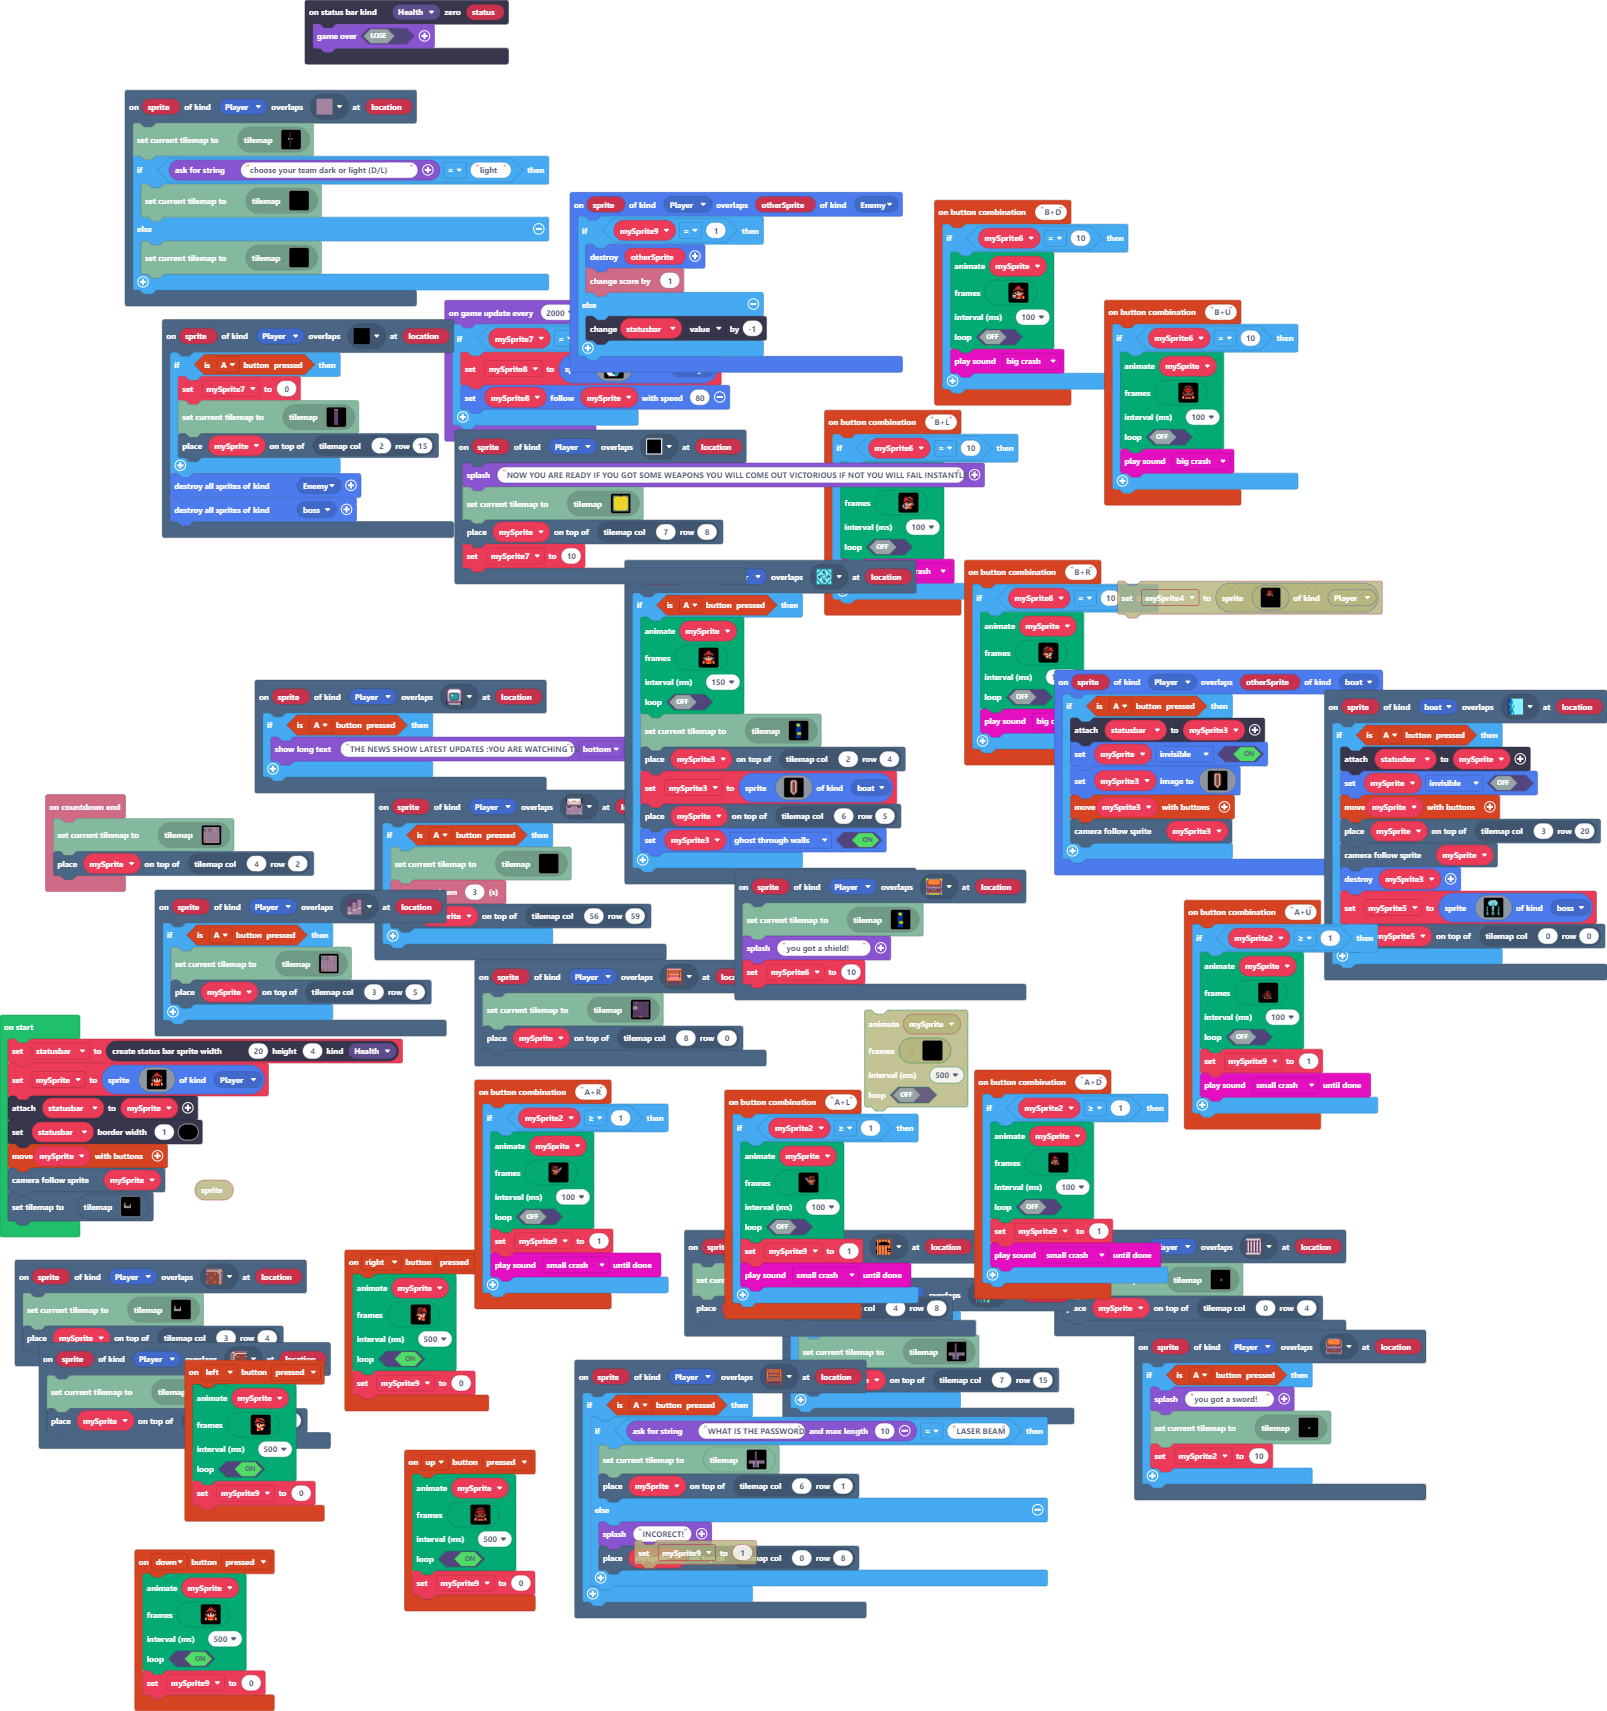
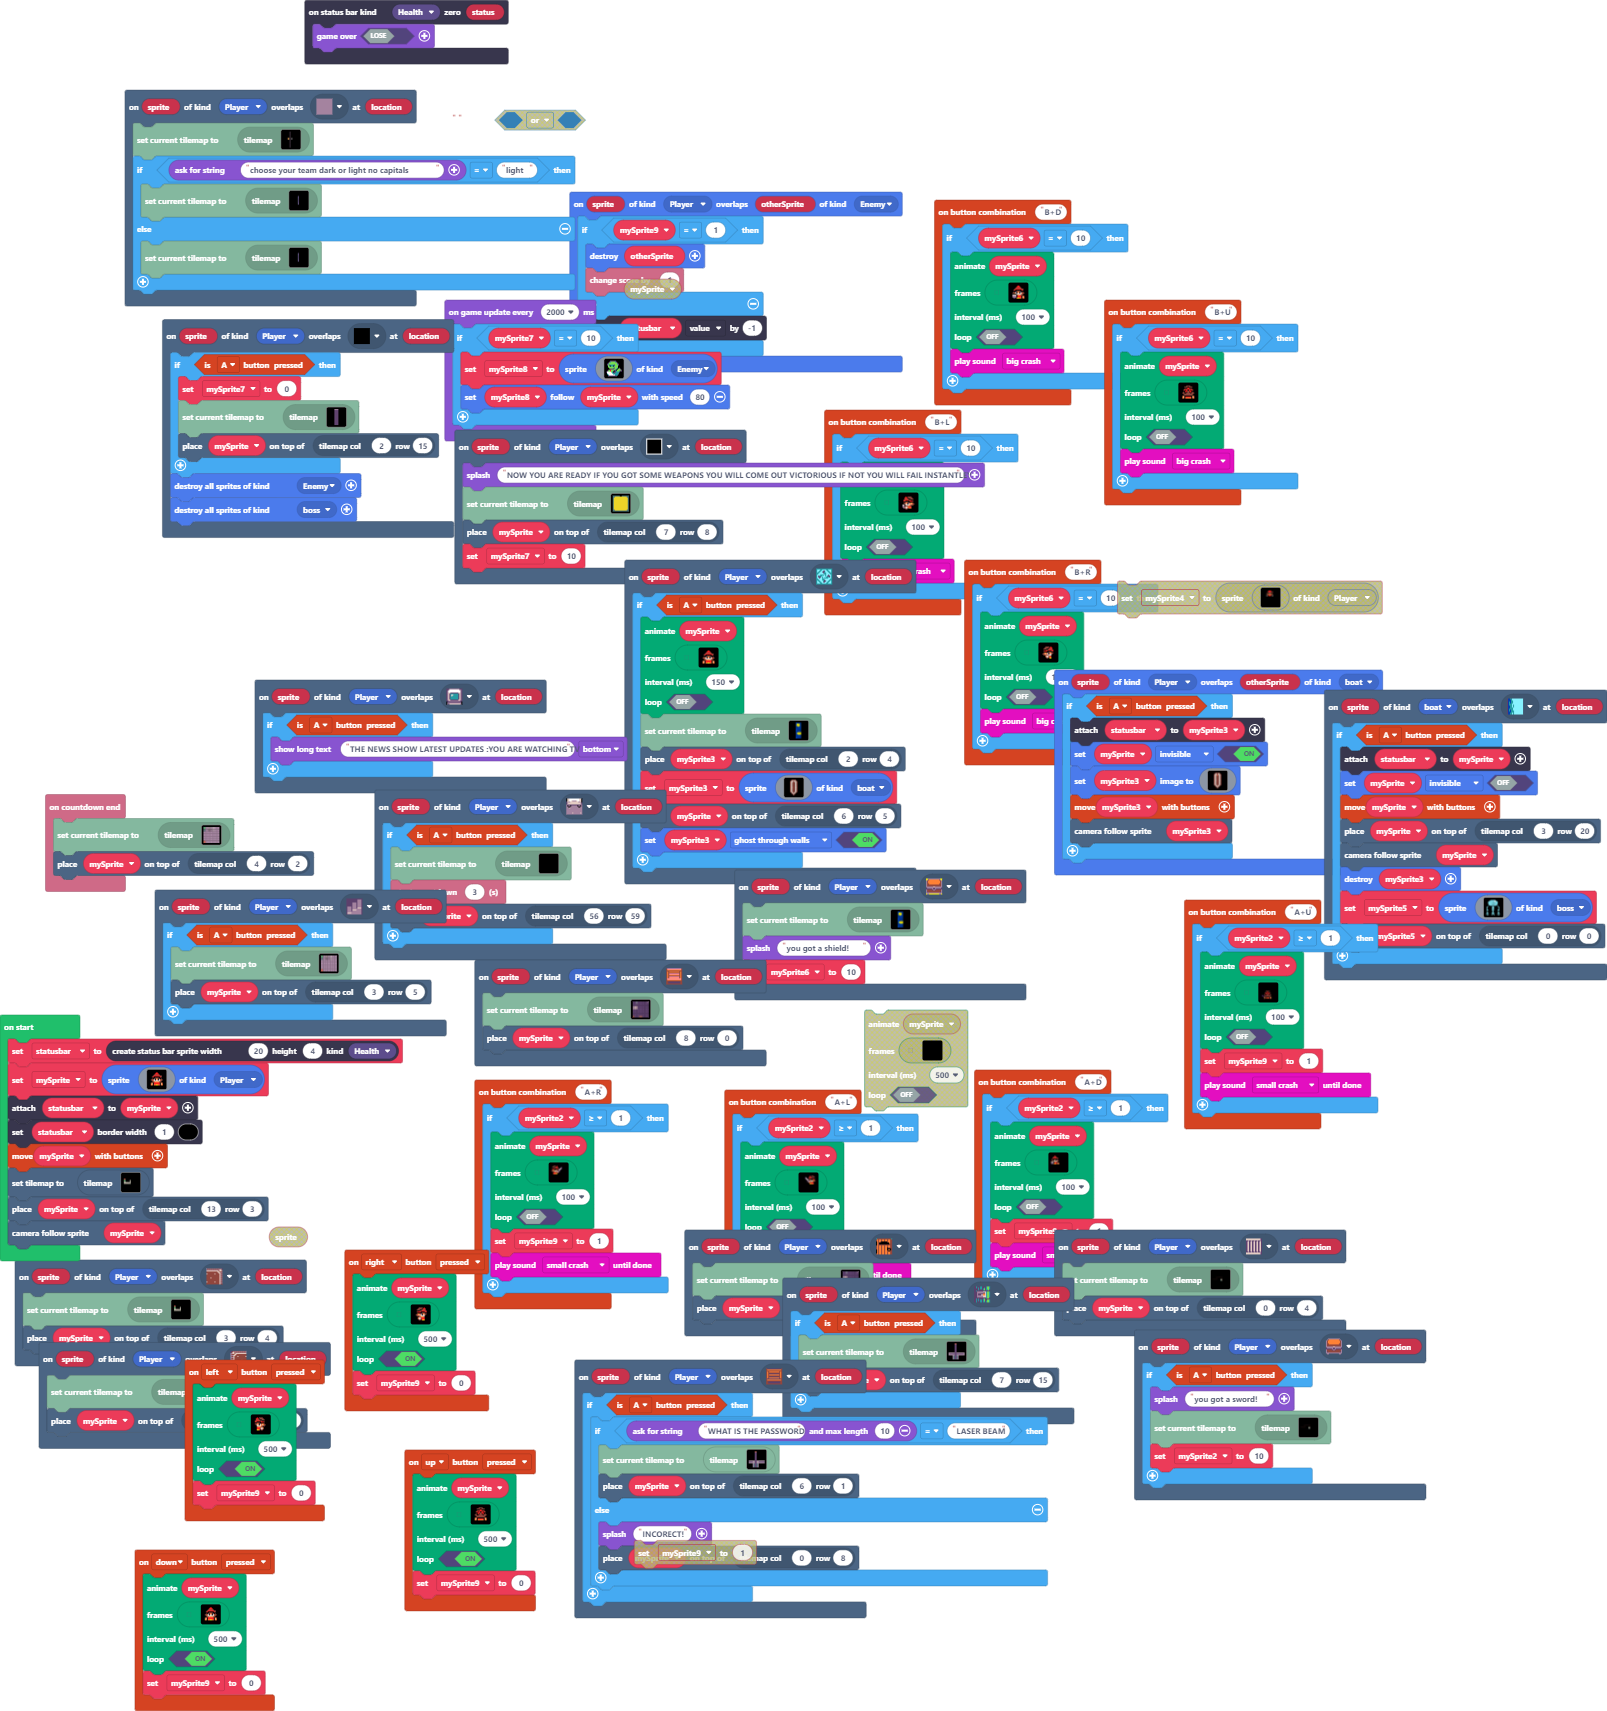
Update main.blocks, main.ts, tilemap.g.jres, tilemap.g.ts

diff --git a/tilemap.g.ts b/tilemap.g.ts
@@ -527,43 +527,43 @@ namespace myTiles {
 . . . . . . . . . . 
 `, [myTiles.transparency16,myTiles.tile87,myTiles.tile89,myTiles.tile90], TileScale.Sixteen);
             case "level20":
-            case "level20":return tiles.createTilemap(hex`1000100000000000000000000000000000000000000000000000000000000000000000000000000000000000000000000000000000000000000000000000000000000000000000000000000000000000000000000000000000000000000000000000000000000000000000000000000000000000000000000000000000000000000000000000000000000000000000000000000000000000000000000000000000000000000000000000000000000000000000000000000000000000000000000000000000000000000000000000000000000000000000000000000000000000000000000000000000000000000000000000000000000000000000000000000000000000`, img`
-. . . . . . . . . . . . . . . . 
-. . . . . . . . . . . . . . . . 
-. . . . . . . . . . . . . . . . 
-. . . . . . . . . . . . . . . . 
-. . . . . . . . . . . . . . . . 
-. . . . . . . . . . . . . . . . 
-. . . . . . . . . . . . . . . . 
-. . . . . . . . . . . . . . . . 
-. . . . . . . . . . . . . . . . 
-. . . . . . . . . . . . . . . . 
-. . . . . . . . . . . . . . . . 
-. . . . . . . . . . . . . . . . 
-. . . . . . . . . . . . . . . . 
-. . . . . . . . . . . . . . . . 
-. . . . . . . . . . . . . . . . 
-. . . . . . . . . . . . . . . . 
-`, [myTiles.transparency16], TileScale.Sixteen);
[1 lines of base64/hex data omitted]
+.............22...............
+.............22...............
+.............22...............
+.............22...............
+.............22...............
+.............22...............
+.............22...............
+.............22...............
+.............22...............
+.............22...............
+.............22...............
+.............22...............
+.............22...............
+.............22...............
+.............22...............
+.............22...............
+`, [myTiles.transparency16,sprites.dungeon.purpleOuterEast1,sprites.dungeon.greenOuterWest0], TileScale.Sixteen);
             case "level21":
-            case "level21":return tiles.createTilemap(hex`1000100000000000000000000000000000000000000000000000000000000000000000000000000000000000000000000000000000000000000000000000000000000000000000000000000000000000000000000000000000000000000000000000000000000000000000000000000000000000000000000000000000000000000000000000000000000000000000000000000000000000000000000000000000000000000000000000000000000000000000000000000000000000000000000000000000000000000000000000000000000000000000000000000000000000000000000000000000000000000000000000000000000000000000000000000000000000`, img`
-. . . . . . . . . . . . . . . . 
-. . . . . . . . . . . . . . . . 
-. . . . . . . . . . . . . . . . 
-. . . . . . . . . . . . . . . . 
-. . . . . . . . . . . . . . . . 
-. . . . . . . . . . . . . . . . 
-. . . . . . . . . . . . . . . . 
-. . . . . . . . . . . . . . . . 
-. . . . . . . . . . . . . . . . 
-. . . . . . . . . . . . . . . . 
-. . . . . . . . . . . . . . . . 
-. . . . . . . . . . . . . . . . 
-. . . . . . . . . . . . . . . . 
-. . . . . . . . . . . . . . . . 
-. . . . . . . . . . . . . . . . 
-. . . . . . . . . . . . . . . . 
-`, [myTiles.transparency16], TileScale.Sixteen);
[1 lines of base64/hex data omitted]
+.............22...............
+.............22...............
+.............22...............
+.............22...............
+.............22...............
+.............22...............
+.............22...............
+.............22...............
+.............22...............
+.............22...............
+.............22...............
+.............22...............
+.............22...............
+.............22...............
+.............22...............
+.............22...............
+`, [myTiles.transparency16,sprites.dungeon.greenOuterWest0,sprites.dungeon.purpleOuterEast1], TileScale.Sixteen);
         }
         return null;
     })

diff --git a/main.ts b/main.ts
@@ -203,7 +203,7 @@ scene.onOverlapTile(SpriteKind.boat, assets.tile`myTile69`, function (sprite, lo
 })
 scene.onOverlapTile(SpriteKind.Player, assets.tile`myTile86`, function (sprite, location) {
     tiles.loadMap(tiles.createMap(tilemap`level19`))
-    if (game.askForString("choose your team dark or light (D/L)") == "light") {
+    if (game.askForString("choose your team dark or light no capitals") == "light") {
         tiles.loadMap(tiles.createMap(tilemap`level20`))
     } else {
         tiles.loadMap(tiles.createMap(tilemap`level21`))
@@ -1665,8 +1665,9 @@ mySprite = sprites.create(img`
 statusbar.attachToSprite(mySprite)
 statusbar.setBarBorder(1, 15)
 controller.moveSprite(mySprite)
-scene.cameraFollowSprite(mySprite)
 tiles.setCurrentTilemap(tilemap`level1`)
+tiles.placeOnTile(mySprite, tiles.getTileLocation(13, 3))
+scene.cameraFollowSprite(mySprite)
 game.onUpdateInterval(2000, function () {
     if (mySprite7 == 10) {
         mySprite8 = sprites.create(img`
